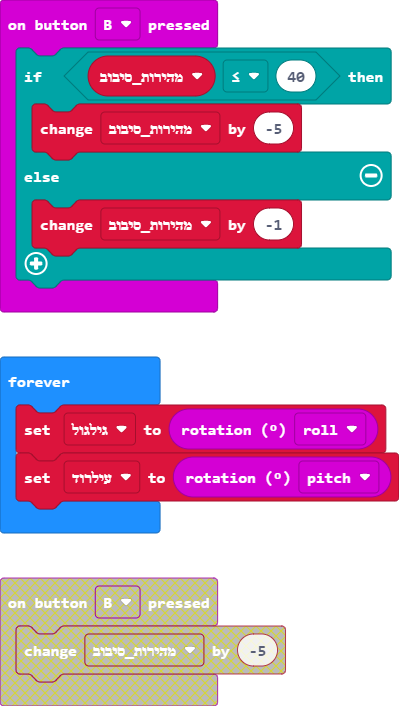
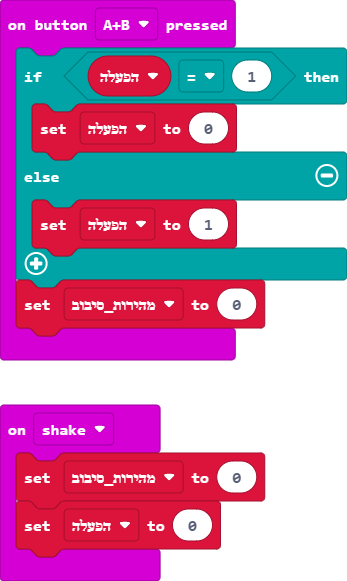
Update main.blocks, main.ts

diff --git a/main.ts b/main.ts
@@ -1,4 +1,5 @@
 let מהירות_סיבוב = 0
+let הפעלה = 0
 let גילגול = 0
 let עילרוד = 0
 input.onButtonPressed(Button.A, function () {
@@ -8,12 +9,24 @@ input.onButtonPressed(Button.A, function () {
         מהירות_סיבוב += 1
     }
 })
+input.onButtonPressed(Button.AB, function () {
+    if (הפעלה == 1) {
+        הפעלה = 0
+    } else {
+        הפעלה = 1
+    }
+    מהירות_סיבוב = 0
+})
 input.onButtonPressed(Button.B, function () {
     if (מהירות_סיבוב <= 40) {
         מהירות_סיבוב += -5
     } else {
         מהירות_סיבוב += -1
     }
+})
+input.onGesture(Gesture.Shake, function () {
+    מהירות_סיבוב = 0
+    הפעלה = 0
 })
 basic.forever(function () {
     גילגול = input.rotation(Rotation.Roll)
